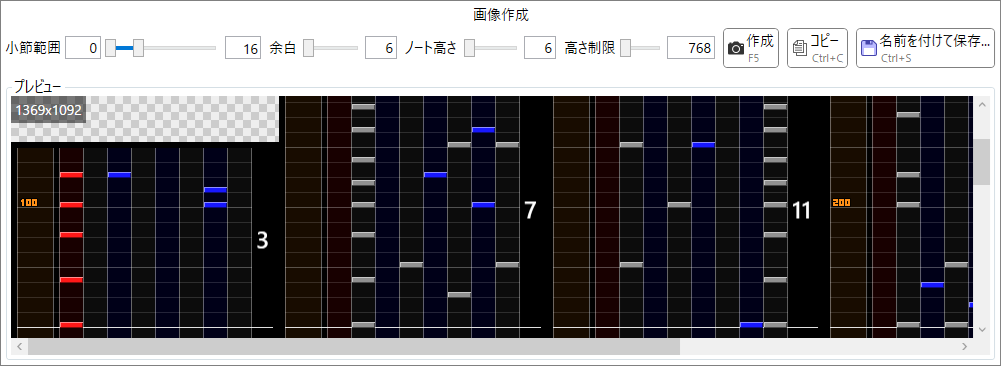
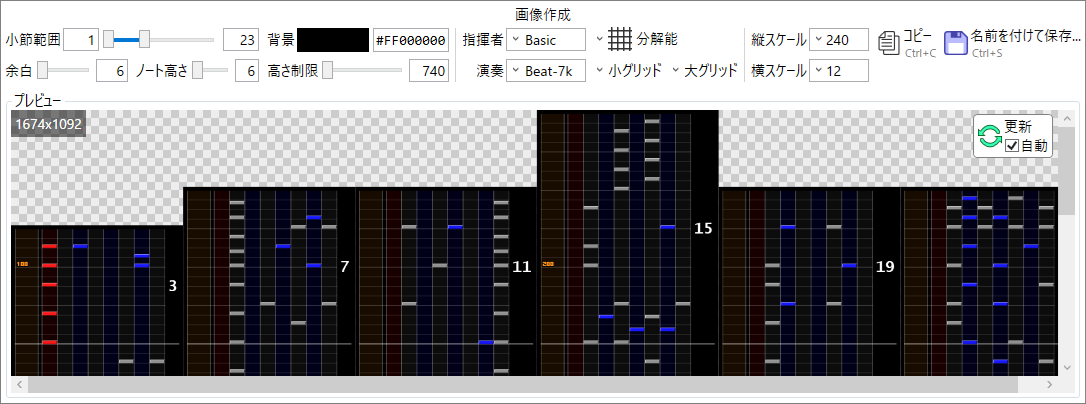
v0.7.26

diff --git a/docs/bms_render.html b/docs/bms_render.html
@@ -18,22 +18,23 @@
                 <h2>説明</h2>
                 要素をクリックすると説明が表示されます。
                 <div class="image-map" src="img/bms_render.png" maps="
-                      1, 33,264, 30, bms/render_range.html;
-                    265, 33,136, 30, bms/render_padding.html;
-                    401, 33,159, 30, bms/render_noteHeight.html;
-                    560, 33,159, 30, bms/render_heightLimit.html;
-                    723, 28, 56, 40, bms/render_render.html;
-                    787, 28, 61, 40, bms/render_copy.html;
-                    856, 28,139, 40, bms/render_save.html;
-                      1, 72,999,293, bms/render_preview.html, center;
-                     11, 96, 75, 27, bms/render_size.html;">
+                      1, 24, 262, 31, bms/render_range.html;
+                    263, 24, 190, 31, bms/render_background.html;
+                      1, 55, 131, 31, bms/render_padding.html;
+                    132, 55, 131, 31, bms/render_noteHeight.html;
+                    263, 55, 190, 31, bms/render_heightLimit.html;
+                    456, 24, 132, 62, bms/render_style.html;
+                    590, 24, 152, 62, bms/render_grid.html;
+                    747, 24, 126, 62, bms/render_scale.html;
+                    873, 24,  67, 38, bms/render_copy.html;
+                    940, 24, 145, 38, bms/render_save.html;
+                      1, 86,1084,317, bms/render_preview.html, center;
+                     11,110,  75, 27, bms/render_size.html;
+                    973,114,  80, 44, bms/render_update.html;">
                 </div>
                 <ul>
                     <li>
                         <span class="script">ESC</span>キーを押すとウィンドウを閉じます。
-                    </li>
-                    <li>
-                        このウィンドウで指定できない視覚要素(グリッドやスタイルなど)は、全て<a href="bms.html#tab">譜面表示エリアの設定</a>に従います。
                     </li>
                     <li>
                         指揮者レーンは、描画範囲内に該当レーンのオブジェが存在する場合にのみ描画されます。

diff --git a/docs/history.html b/docs/history.html
@@ -10,6 +10,30 @@
         <div class="content">
             <ul>
                 <li>
+                    <details id="0_7_26">
+                        <summary class="a-like">Version 0.7.26 (2025/08/29)</summary>
+                        <ul>
+                            <li>
+                                仕様変更
+                                <ul>
+                                    <li>
+                                        <a href="bms_render.html">BMSモード/画像作成</a>において、以下のように変更しました。
+                                        <ul>
+                                            <li>
+                                                設定項目を増やしました。
+                                            </li>
+                                            <li>
+                                                「コピー」の際に透過情報を保持するようにしました。貼り付け先が対応していれば、透明部分を維持したまま貼り付けることができます。
+                                            </li>
+                                        </ul>
+                                    </li>
+                                </ul>
+                            </li>
+                        </ul>
+                        <br>
+                    </details>
+                </li>
+                <li>
                     <details id="0_7_25">
                         <summary class="a-like">Version 0.7.25 (2025/08/29)</summary>
                         <ul>

diff --git a/docs/bms/render_heightLimit.html b/docs/bms/render_heightLimit.html
@@ -5,12 +5,13 @@
     </li>
     <li>
         画像は若い番号の小節から<b>小節単位</b>で積み上げられ、<br>
-        <b>小節頭の位置が高さ制限を超える</b>場合に次の列に移ります。
+        <b>小節頭の位置</b>が制限を超える場合に次の列に移ります。
     </li>
     <li>
         小節の<b>末尾は高さ制限の範囲外</b>です。
     </li>
     <li>
-        結果として、実際に作成される画像の高さはこの指定値よりも多少大きくなります。
+        結果として、実際に作成される画像の高さは<br>
+        この指定値よりも最大で1小節分大きくなります。
     </li>
 </ul>

diff --git a/docs/bms/render_update.html b/docs/bms/render_update.html
@@ -1,0 +1,11 @@
+<h3><img src="img/icons/Update.png" class="icon"/>プレビューの更新</h3>
+<span class="script">F5</span>
+<ul>
+    <li>
+        与えられた設定に基づく譜面画像をプレビュー領域に描画します。
+    </li>
+    <li>
+        「自動」をチェックした場合、このボタンを押さなくても、<br>
+        各設定の変更時に自動的にプレビューが更新されます。
+    </li>
+</ul>

diff --git a/docs/bms/render_style.html b/docs/bms/render_style.html
@@ -1,0 +1,12 @@
+<h3>レーンのスタイル</h3>
+<ul>
+    <li>
+        指揮者レーンと演奏レーンの表示スタイルです。
+    </li>
+    <li>
+        詳細は<a href="bms.html#tab">メインウィンドウの解説</a>を参照してください。
+    </li>
+    <li>
+        ここでの設定は<b>メインウィンドウの譜面表示エリアと連動します</b>。
+    </li>
+</ul>

diff --git a/docs/bms/render_grid.html b/docs/bms/render_grid.html
@@ -1,0 +1,12 @@
+<h3>グリッド</h3>
+<ul>
+    <li>
+        各小節内に描画する補助線の設定です。
+    </li>
+    <li>
+        詳細は<a href="bms.html#tab">メインウィンドウの解説</a>を参照してください。
+    </li>
+    <li>
+        ここでの設定は<b>メインウィンドウの譜面表示エリアと連動します</b>。
+    </li>
+</ul>

diff --git a/docs/bms/render_scale.html b/docs/bms/render_scale.html
@@ -1,0 +1,12 @@
+<h3>スケール</h3>
+<ul>
+    <li>
+        画像の縦横の拡大率です。
+    </li>
+    <li>
+        詳細は<a href="bms.html#tab">メインウィンドウの解説</a>を参照してください。
+    </li>
+    <li>
+        ここでの設定は<b>メインウィンドウの譜面表示エリアと連動します</b>。
+    </li>
+</ul>

diff --git a/docs/bms/render_save.html b/docs/bms/render_save.html
@@ -6,6 +6,6 @@
     </li>
     <li>
         保存形式によっては透明度情報が失われます。<br>
-        この場合背景は黒で塗りつぶされます。
+        この場合透過部分は黒で塗りつぶされます。
     </li>
 </ul>

diff --git a/docs/bms/render_background.html b/docs/bms/render_background.html
@@ -1,0 +1,9 @@
+<h3>背景色</h3>
+<ul>
+    <li>
+        各列の余白の塗りつぶしに使う色です。
+    </li>
+    <li>
+        各列の高さが異なる場合に上に発生する隙間は<b>塗りつぶされません</b>。
+    </li>
+</ul>

diff --git a/docs/bms/render_size.html b/docs/bms/render_size.html
@@ -1,6 +1,6 @@
 <h3>予想画像サイズ</h3>
 <ul>
     <li>
-        作成される予定の画像のサイズ(横x縦)が表示されます。
+        作成される予定の画像のサイズ(横x縦/ピクセル)が表示されます。
     </li>
 </ul>
